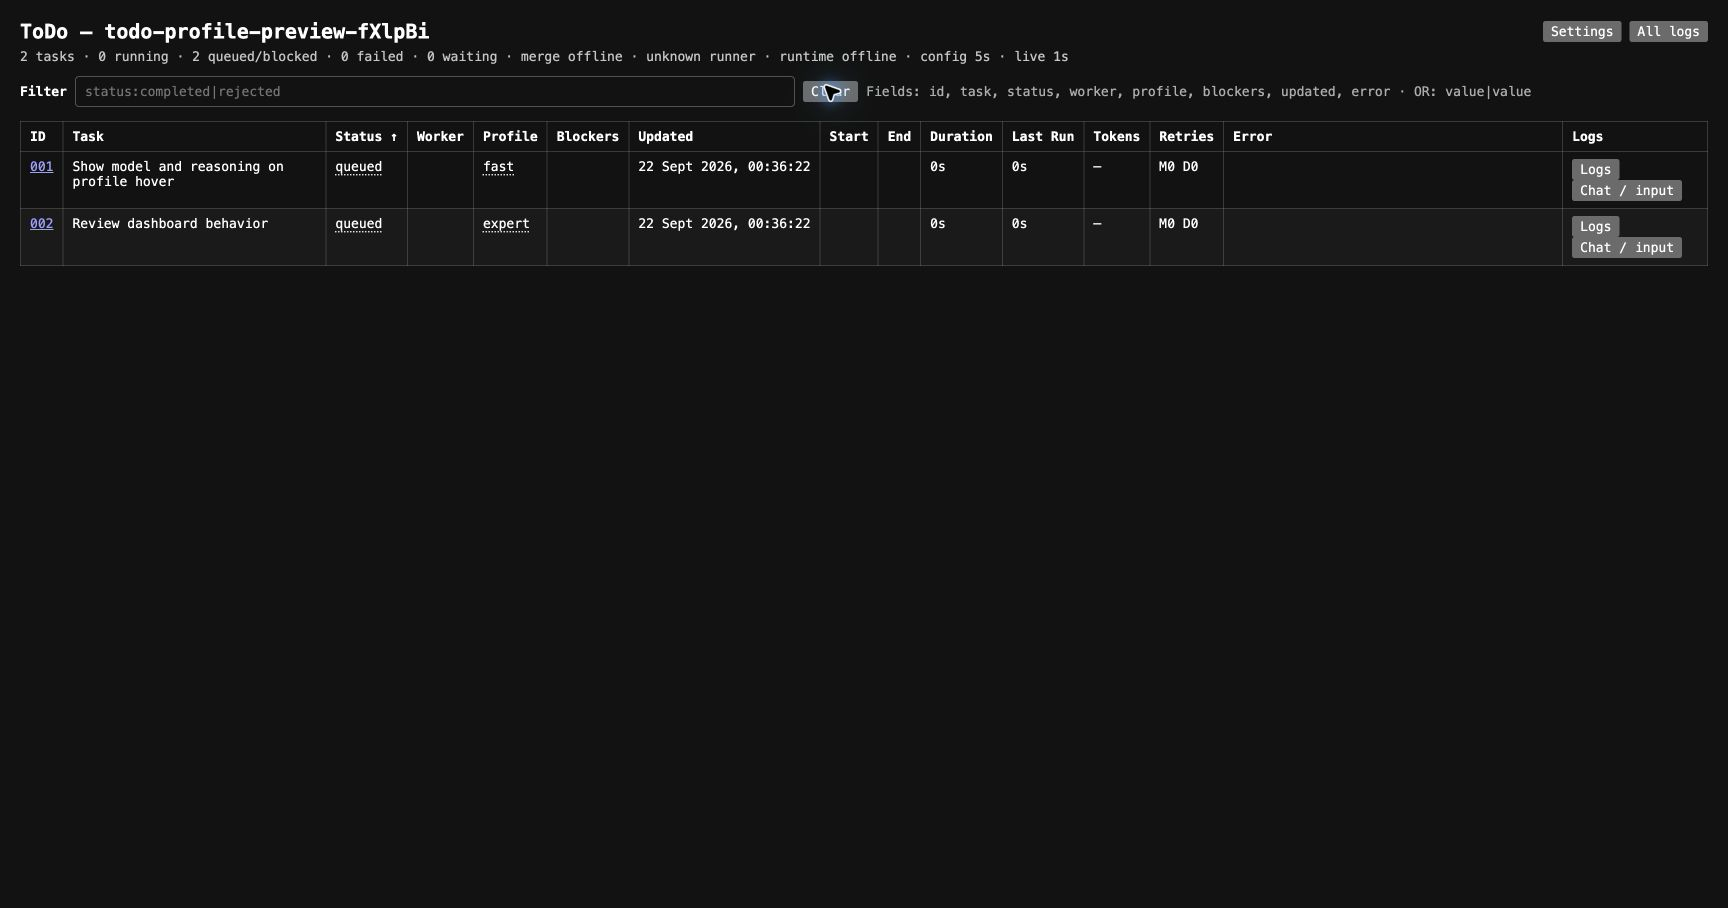
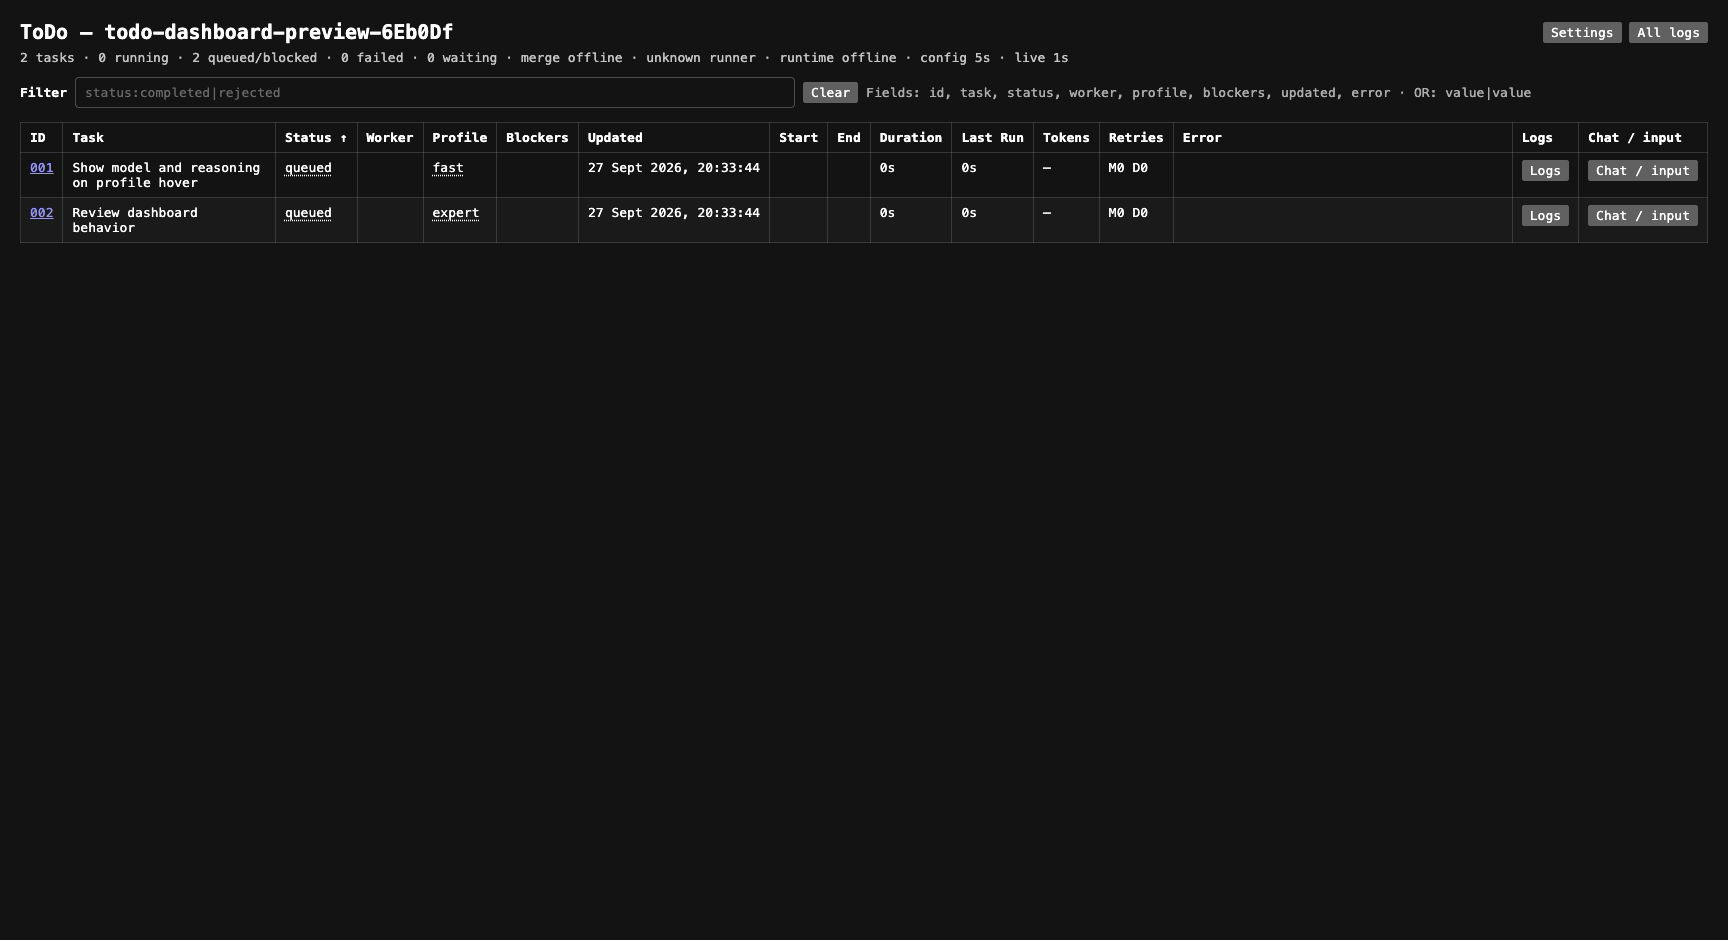
🐛 fix(todo): split dashboard action columns

diff --git a/plugins/todo/CHANGELOG.md b/plugins/todo/CHANGELOG.md
@@ -1,5 +1,10 @@
 # Changelog
 
+## Separate dashboard action columns
+
+- Give task Logs and Chat / input controls their own content-width columns and
+  keep each button label on one line.
+
 ## Heavy-task profiles after Bug Hunt Bench review
 
 - Use GPT-5.6 Sol at max for advanced heavy work. Keep GPT-6 Luna/Sol for
